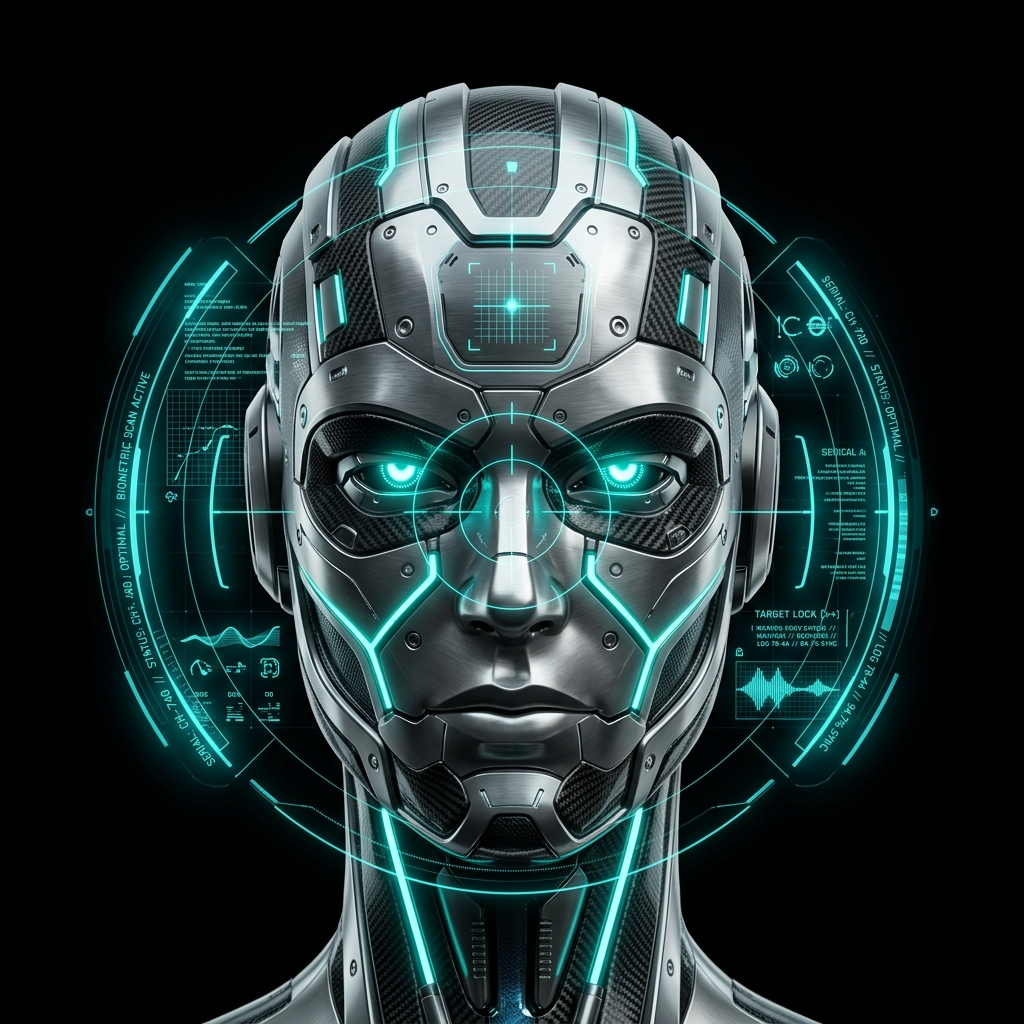
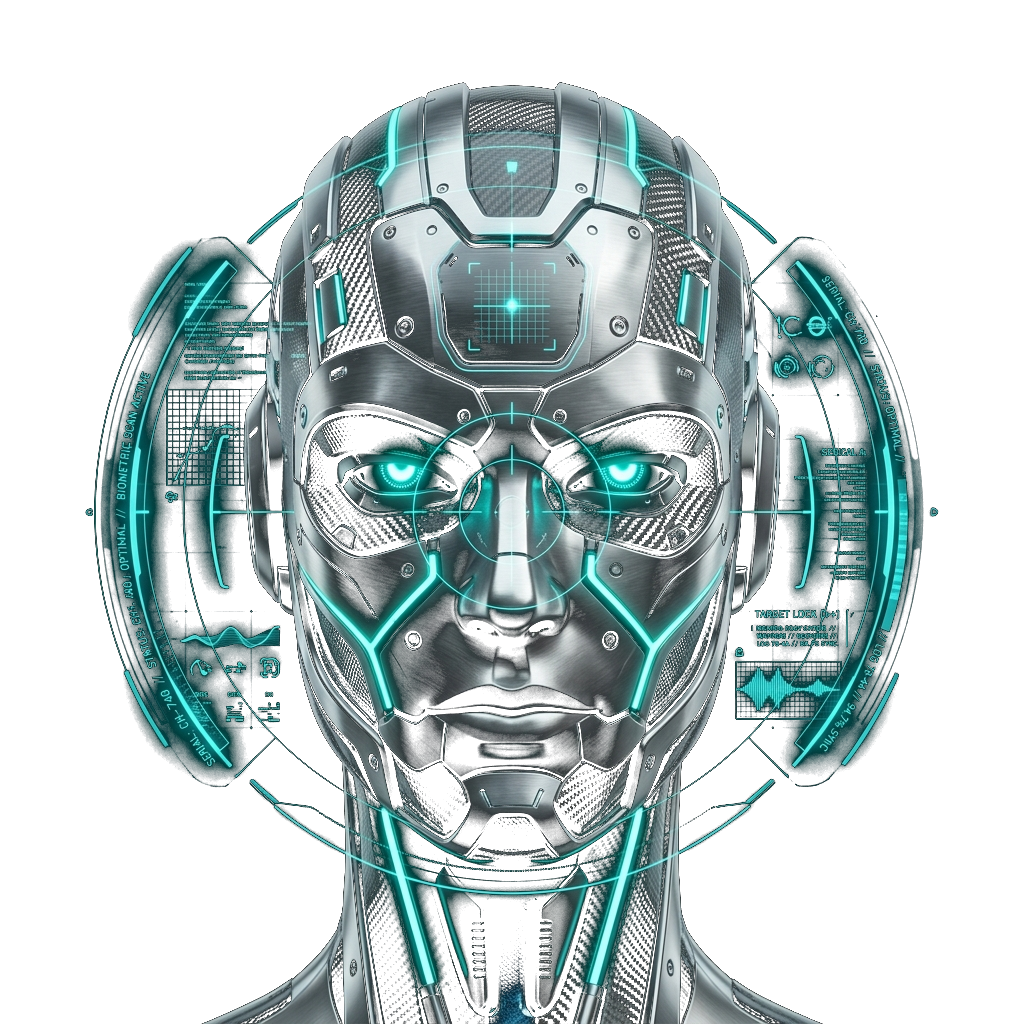
Convert hero robot head to a natively transparent PNG and update layout styles

diff --git a/styles.css b/styles.css
@@ -266,15 +266,13 @@ body.light-theme .moon-icon {
   width: 100%;
   height: auto;
   object-fit: contain;
-  filter: drop-shadow(0 0 25px rgba(24, 196, 176, 0.4));
+  filter: drop-shadow(0 0 25px rgba(24, 196, 176, 0.45));
   position: relative;
   z-index: 2;
-  mix-blend-mode: screen;
 }
 
 body.light-theme .hologram-image {
-  filter: drop-shadow(0 0 25px rgba(24, 196, 176, 0.25)) invert(1) hue-rotate(180deg);
-  mix-blend-mode: multiply;
+  filter: drop-shadow(0 0 25px rgba(24, 196, 176, 0.3));
 }
 
 .hologram-glow {